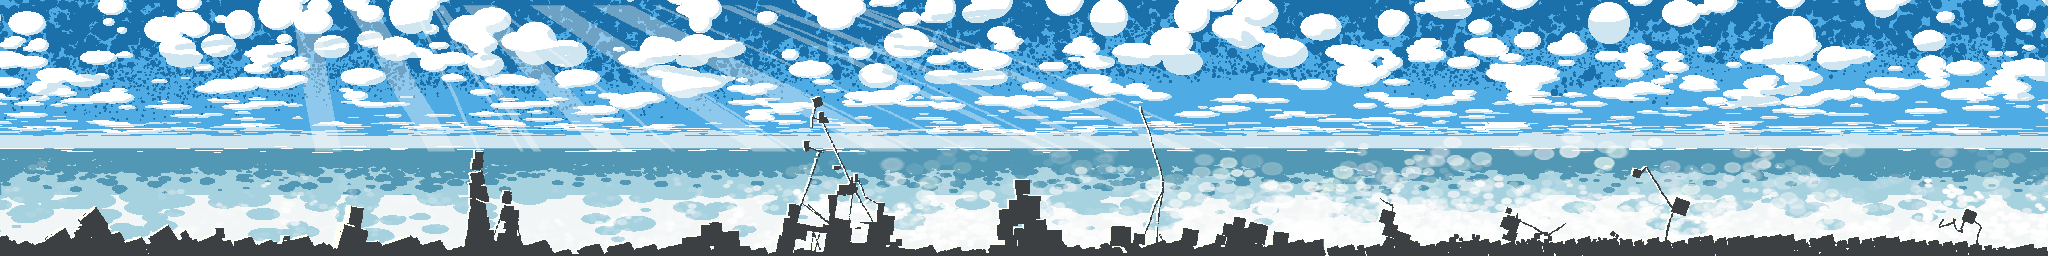
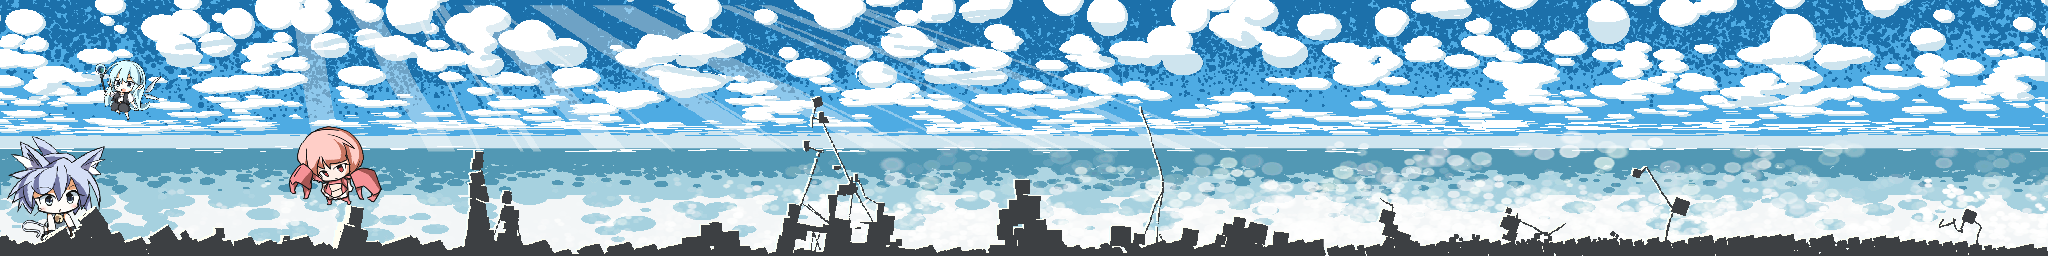
クエスト一覧のUI画像更新

diff --git a/app/javascript/QuestWindow.vue b/app/javascript/QuestWindow.vue
@@ -149,7 +149,7 @@ export default {
       height: 200px;
       background-repeat: no-repeat;
       background-size: cover;
-      background-position: -120px 0;
+      background-position: 0 0;
       image-rendering: pixelated;
     }
     .controls{
@@ -203,7 +203,7 @@ export default {
   }
   @keyframes main-image {
     0% {
-      background-position: 0 0;
+      background-position: 0 20px;
       opacity: 0.5;
     }
   }
@@ -218,6 +218,6 @@ export default {
     animation: vertical-text-in .2s cubic-bezier(0.22, 0.15, 0.25, 1.43) 0s backwards;
   }
   .main_image {
-    animation: main-image 20s cubic-bezier(0,1.1,0,.98) 0s;
+    animation: main-image 1s cubic-bezier(.31,.99,1,.99) 0s;
   }
 </style>
